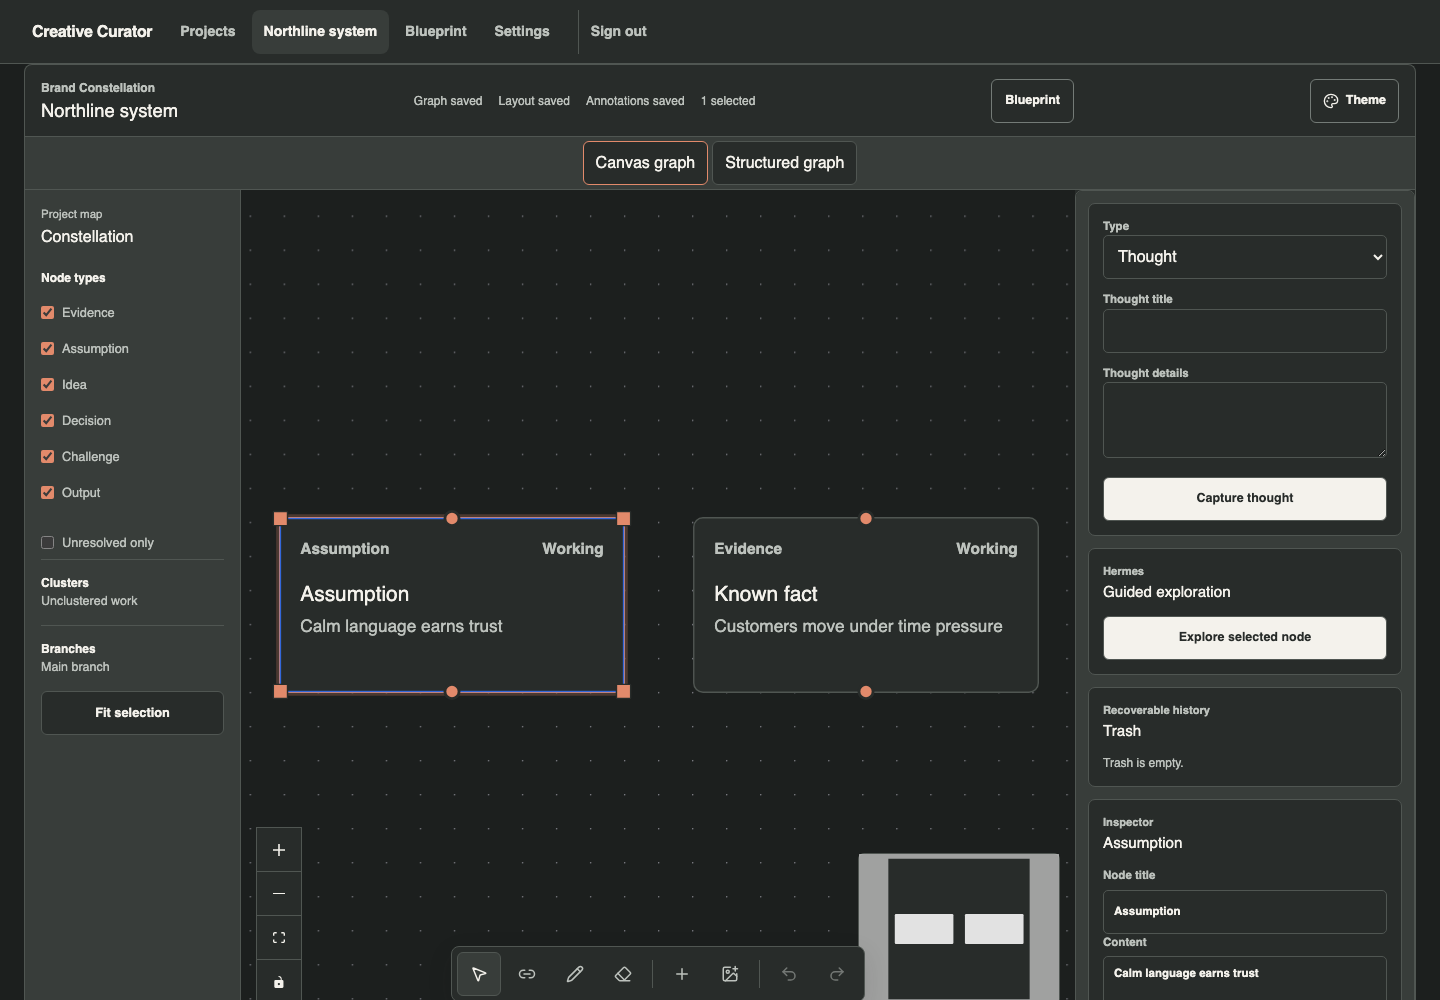
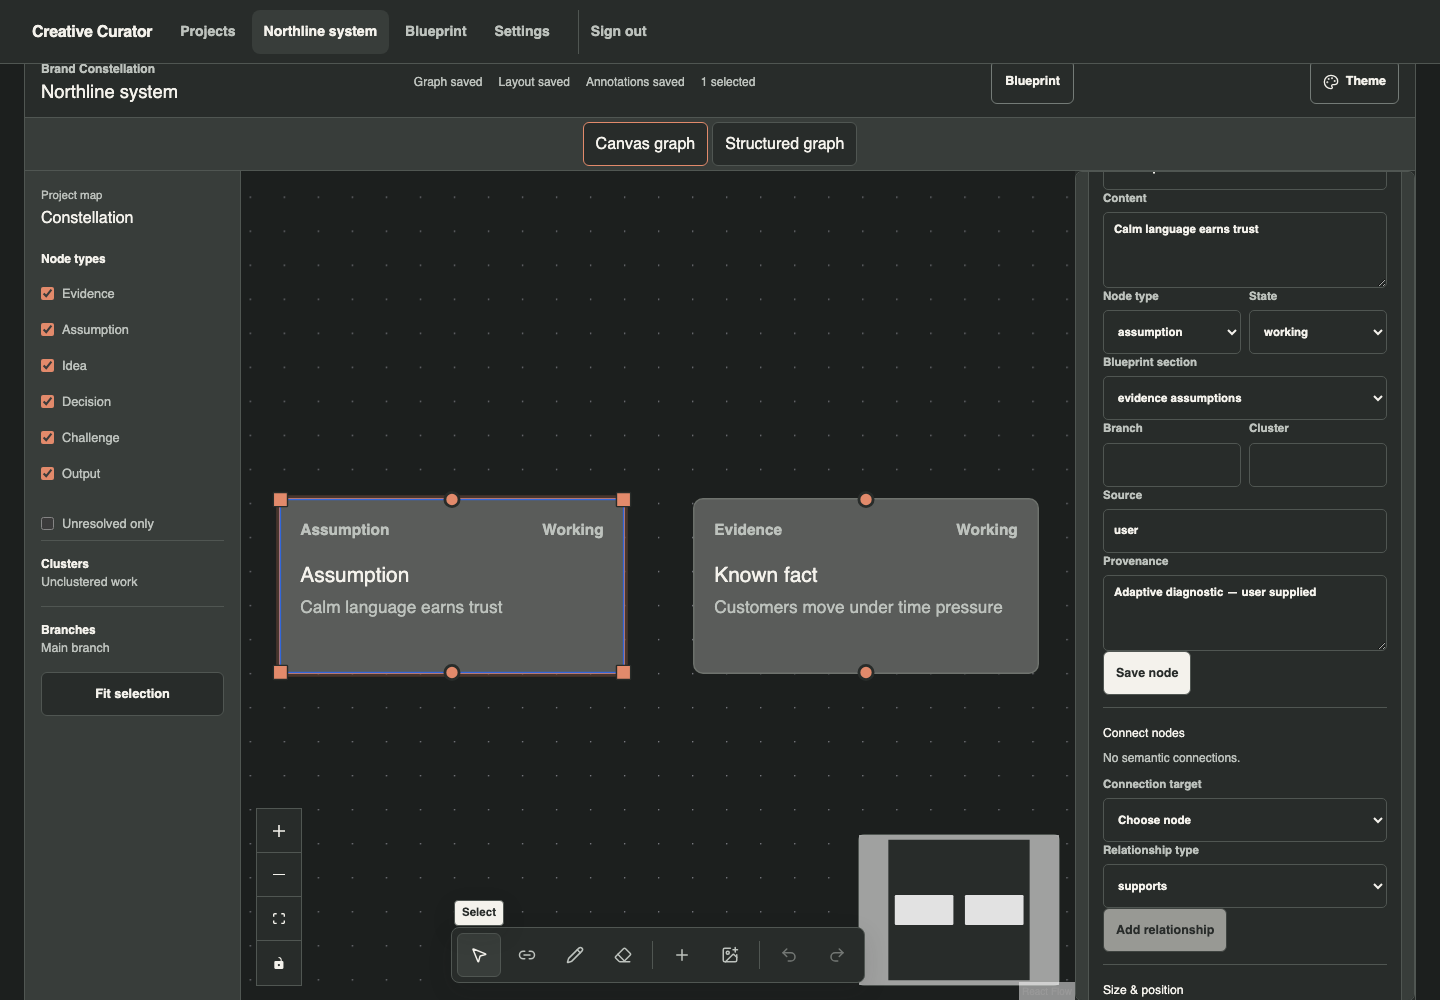
docs: correct desktop workspace evidence

diff --git a/docs/evidence/spatial-brand-workspace/README.md b/docs/evidence/spatial-brand-workspace/README.md
@@ -1,28 +1,28 @@
 # Spatial Brand Workspace evidence
 
-Production evidence was corrected 2026-07-27 from base commit `59081fd` with Chromium, real Next.js and FastAPI test servers, test authentication, and in-memory persistence. The unchanged public landing and sign-in captures remain from the earlier public-surface evidence run; every authenticated production scenario was recaptured after legacy runtime removal. No remote Supabase or live provider was contacted.
+Production evidence was corrected 2026-07-27 from base commit `d054148` with Chromium, real Next.js and FastAPI test servers, test authentication, and in-memory persistence. Four rejected desktop captures were replaced after final dock and proposal-layout review; remaining captures are unchanged. No remote Supabase or live provider was contacted.
 
 ## Capture verification
 
 ```text
 cd client
-npx playwright test e2e/task9-capture.spec.ts --reporter=line --workers=1
-1 passed (21.8s)
+npx playwright test e2e/task9-evidence-correction.spec.ts --reporter=line --workers=1
+1 passed, 1 failed (12.0s; rejected wrong deterministic proposal-text expectation before screenshot)
 
-npx playwright test e2e/task9-capture.spec.ts -g "recapture blueprint settled" --reporter=line --workers=1
-1 passed (4.9s)
+npx playwright test e2e/task9-evidence-correction.spec.ts -g "recapture settled Hermes proposal" --reporter=line --workers=1
+1 passed (5.8s)
 
-npx playwright test e2e/task9-capture.spec.ts -g "recapture projects settled" --reporter=line --workers=1
-1 passed (1.9s)
+npx playwright test e2e/task9-evidence-correction.spec.ts -g "recapture selected-node desktop themes" --reporter=line --workers=1
+1 passed (4.0s)
 ```
 
-Temporary capture support was removed after the runs. Screenshots are intentional review evidence, not Playwright `test-results` artifacts. Desktop and mobile constellation theme PNGs are viewport captures with exact image dimensions of 1440×1000 and 390×844. Scenario PNGs use those same browser viewports with full-page screenshots, so their image heights may exceed the viewport.
+Temporary capture support was removed after the runs. Screenshots are intentional review evidence, not Playwright `test-results` artifacts. Desktop and mobile constellation theme PNGs are viewport captures with exact image dimensions of 1440×1000 and 390×844. The corrected desktop Hermes proposal is also an exact 1440×1000 viewport capture; other scenario PNGs use the documented browser viewports with full-page screenshots, so their image heights may exceed the viewport.
 
-Across the three successful capture commands, 3 tests passed, 0 failed, and 0 skipped. Capture-only initialization removed the Next.js development portal and asserted zero portal elements immediately before every screenshot. Persistence-sensitive scenarios used a stable absence window after final viewport and scroll changes.
+Across the correction commands, 3 tests passed, 1 initial assertion failed before screenshot, and 0 skipped. Capture-only initialization removed the Next.js development portal and asserted zero portal elements immediately before every screenshot. Final captures asserted settled persistence after final viewport and scroll changes.
 
-The capture asserted the effective theme, opaque named surfaces, no horizontal overflow, no production link to `/studio` or `/projects/legacy/*`, a complete eight-control desktop dock, exactly one Undo/Redo pair, Select active, a keyboard-focused Select tooltip, and selected-node Inspector sections `Connect nodes` and `Size & position`. Mobile capture asserted automatic-layout focus workflow and absence of the desktop dock. No undeclared accessibility scanner was used.
+The correction capture asserted effective theme, selected node, a complete eight-control desktop dock within viewport margins, exactly one Undo/Redo pair, Select active, a keyboard-focused Select tooltip, and visible Inspector sections `Connect nodes` and `Size & position`. Proposal capture additionally asserted settled layout, complete readable content, and zero overlap with semantic nodes, work panel, minimap, dock, and viewport controls. No undeclared accessibility scanner was used.
 
-Direct local image inspection covered all six theme captures and all 16 authenticated scenario replacements. The proposal remained fully readable inside the exact 1440×1000 canvas without node or work-panel overlap; Blueprint used the restrained workbench hierarchy. Surfaces were opaque and tooltip/focus contrast was readable; inspection found no dock clipping, horizontal overflow, duplicate history arrows, legacy navigation, browser/test artifacts, or truncated focus workflow.
+Direct local image inspection covered all four corrected desktop captures. The proposal remained fully readable inside the exact 1440×1000 canvas without node, work-panel, minimap, dock, or controls overlap. All themes visibly show selected-node Inspector connection and size controls, one complete eight-control dock, one Undo/Redo pair, active Select, and its keyboard-focus tooltip. Inspection found no dock clipping, legacy navigation, development portal, or transient save text.
 
 ## Evidence index
 
@@ -38,7 +38,7 @@ Ephemeral in-memory UUIDs replace `:projectId` in rendered routes.
 | Selected-node compact dock / mobile focus workflow | `/projects/:projectId` | Graphite | [1440×1000 viewport PNG](04-constellation-graphite-desktop-1440.png) | [390×844 viewport PNG](04-constellation-graphite-mobile-390.png) |
 | Selected-node compact dock / mobile focus workflow | `/projects/:projectId` | Project | [1440×1000 viewport PNG](04-constellation-project-desktop-1440.png) | [390×844 viewport PNG](04-constellation-project-mobile-390.png) |
 | Annotation and private media | `/projects/:projectId` | Paper | [1440×1000 viewport, full page](05-annotation-media-desktop-1440.png) | [390×844 viewport, full page](05-annotation-media-mobile-390.png) |
-| Hermes proposal preview | `/projects/:projectId` | Paper | [1440×1000 viewport, full page](06-hermes-proposal-preview-desktop-1440.png) | [390×844 viewport, full page](06-hermes-proposal-preview-mobile-390.png) |
+| Hermes proposal preview | `/projects/:projectId` | Paper | [1440×1000 viewport PNG](06-hermes-proposal-preview-desktop-1440.png) | [390×844 viewport, full page](06-hermes-proposal-preview-mobile-390.png) |
 | Accepted Hermes challenge | `/projects/:projectId` | Paper | [1440×1000 viewport, full page](07-hermes-challenge-desktop-1440.png) | [390×844 viewport, full page](07-hermes-challenge-mobile-390.png) |
 | Starter Brand Blueprint | `/projects/:projectId/blueprint` | Paper | [1440×1000 viewport, full page](08-blueprint-desktop-1440.png) | [390×844 viewport, full page](08-blueprint-mobile-390.png) |
 | Provider settings | `/settings` | Authenticated Clear Workbench | [1440×1000 viewport, full page](09-settings-desktop-1440.png) | [390×844 viewport, full page](09-settings-mobile-390.png) |
